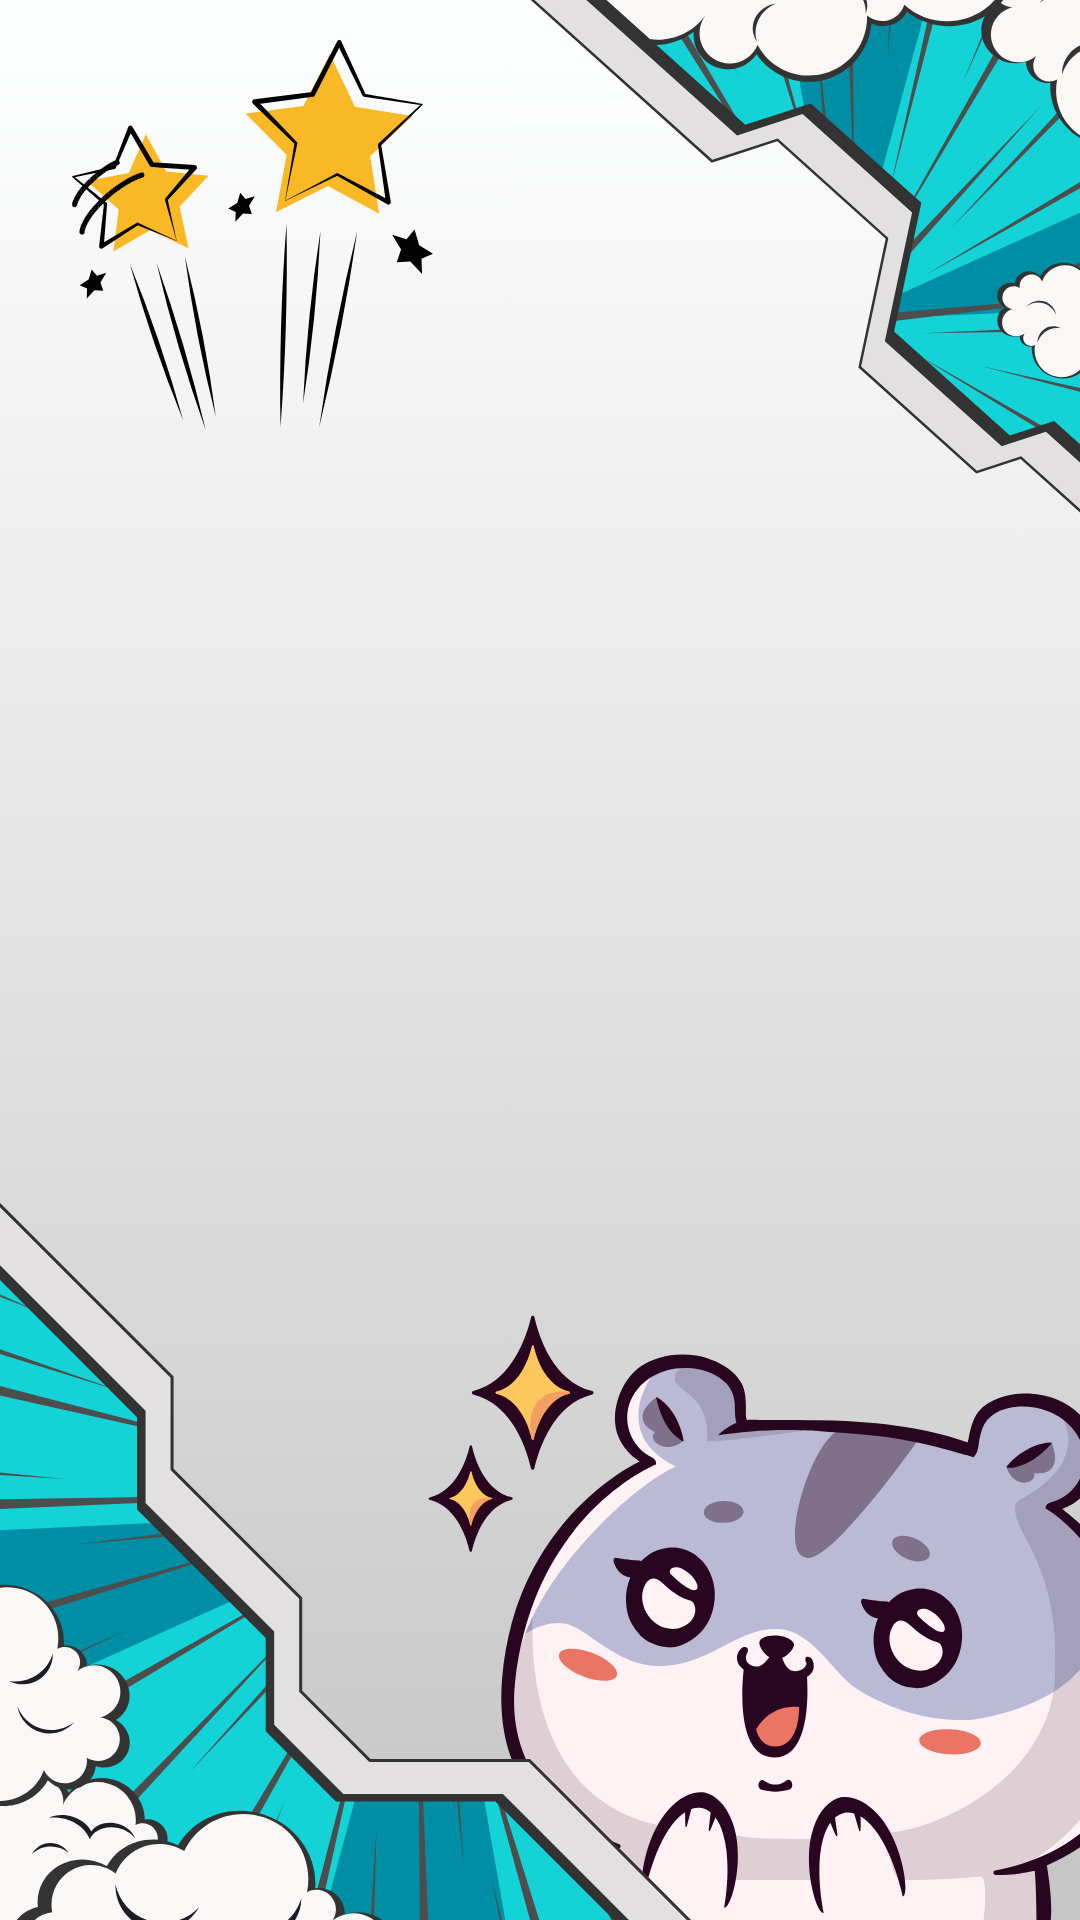
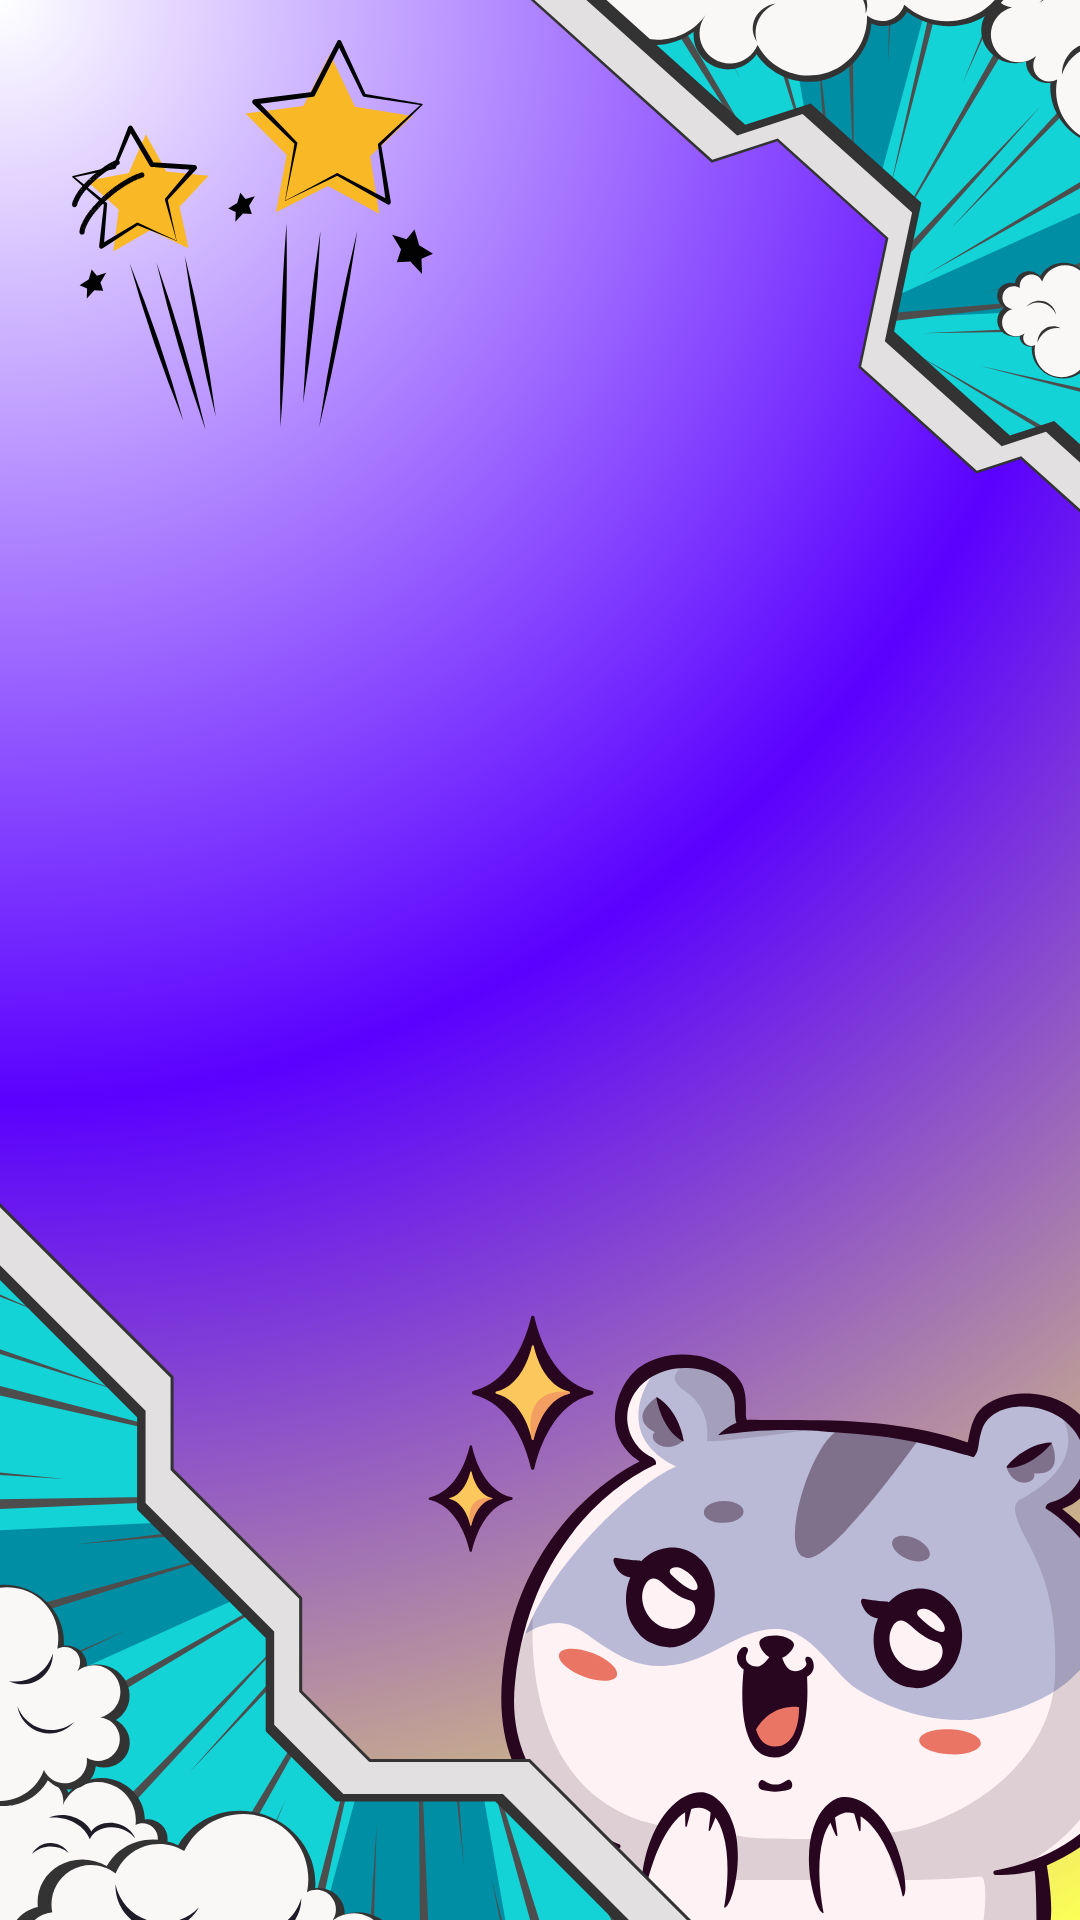
Update background image and improve glassy quiz UI

diff --git a/index.html b/index.html
@@ -7,8 +7,8 @@
 <style>
   :root{
     --accent:#34d399;
-    --text:#f1f5f9;
-    --muted:#9ca3af;
+    --text:#ffffff; /* all text white now */
+    --muted:#ffffffcc; /* slightly transparent white for small text */
   }
   *{box-sizing:border-box; margin:0; padding:0;}
  body {
@@ -26,12 +26,29 @@
   .container{
     max-width:420px;
     width:100%;
-    background: rgba(0,0,0,0.6);
+    background: rgba(65, 105, 225, 0.25); /* light royal blue glass */
+    background-image: linear-gradient(
+      135deg,
+      rgba(255,255,255,0.05) 25%,
+      rgba(255,255,255,0) 25%,
+      rgba(255,255,255,0) 50%,
+      rgba(255,255,255,0.05) 50%,
+      rgba(255,255,255,0.05) 75%,
+      rgba(255,255,255,0) 75%,
+      rgba(255,255,255,0) 100%
+    );
+    background-size: 40px 40px; /* spacing for light streaks */
+    backdrop-filter: blur(12px);
+    -webkit-backdrop-filter: blur(12px);
     border-radius:16px;
+    border: 1px solid rgba(173,216,230,0.4);
+    box-shadow: 0 8px 32px 0 rgba(0, 0, 0, 0.1);
     padding:1.5rem;
     text-align:center;
     transition: all 0.3s ease-in-out;
+    color: var(--text);
   }
+
   h1{font-size:1.6rem; margin-bottom:0.8rem;}
   p{color:var(--muted); font-size:0.95rem; margin-bottom:1.2rem;}
   .btn{
@@ -51,15 +68,16 @@
   .question.show{opacity:1; transform: translateY(0);}
   .options{display:grid; gap:0.8rem;}
   .option{
-    background: rgba(255,255,255,0.1);
+    background: rgba(173,216,230,0.2); /* light blue option */
     border-radius:10px;
     padding:0.8rem;
     cursor:pointer;
     transition:0.15s;
+    color: #ffffff;
   }
   .option.selected{
-    background: rgba(52,211,153,0.3);
-    border:1px solid #22c55e;
+    background: rgba(65,105,225,0.4); /* royal blue highlight */
+    border:1px solid #87cefa; /* subtle bright blue */
   }
   .hidden{display:none;}
   .result h2{margin-bottom:0.5rem;}
